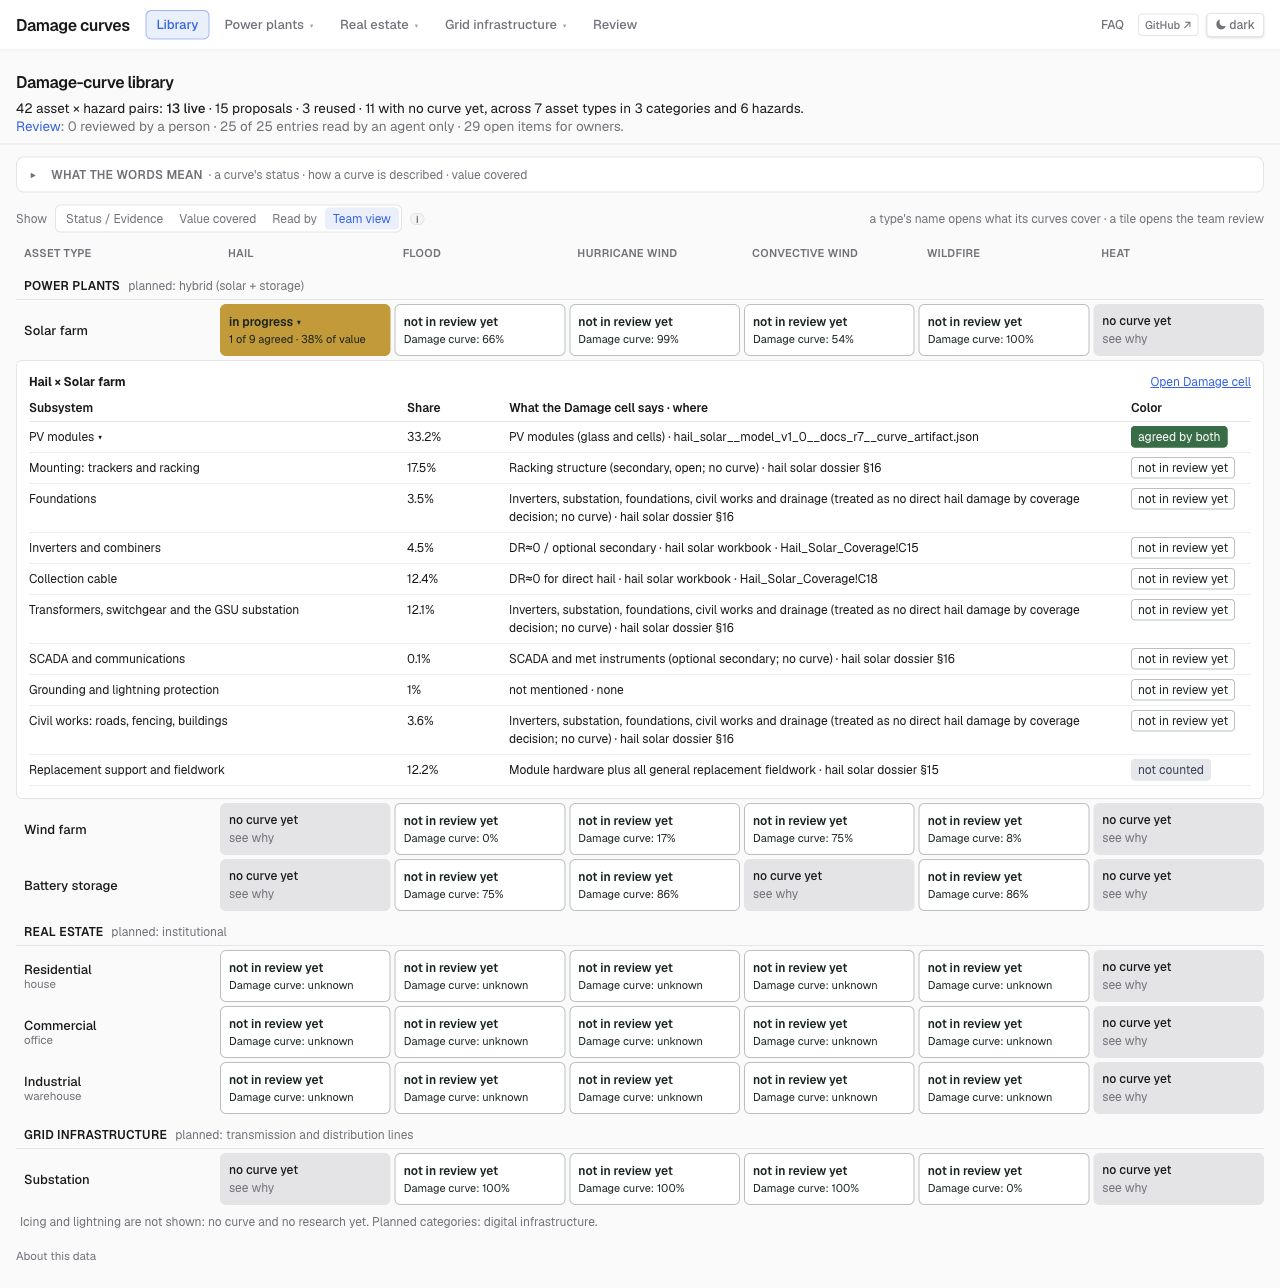
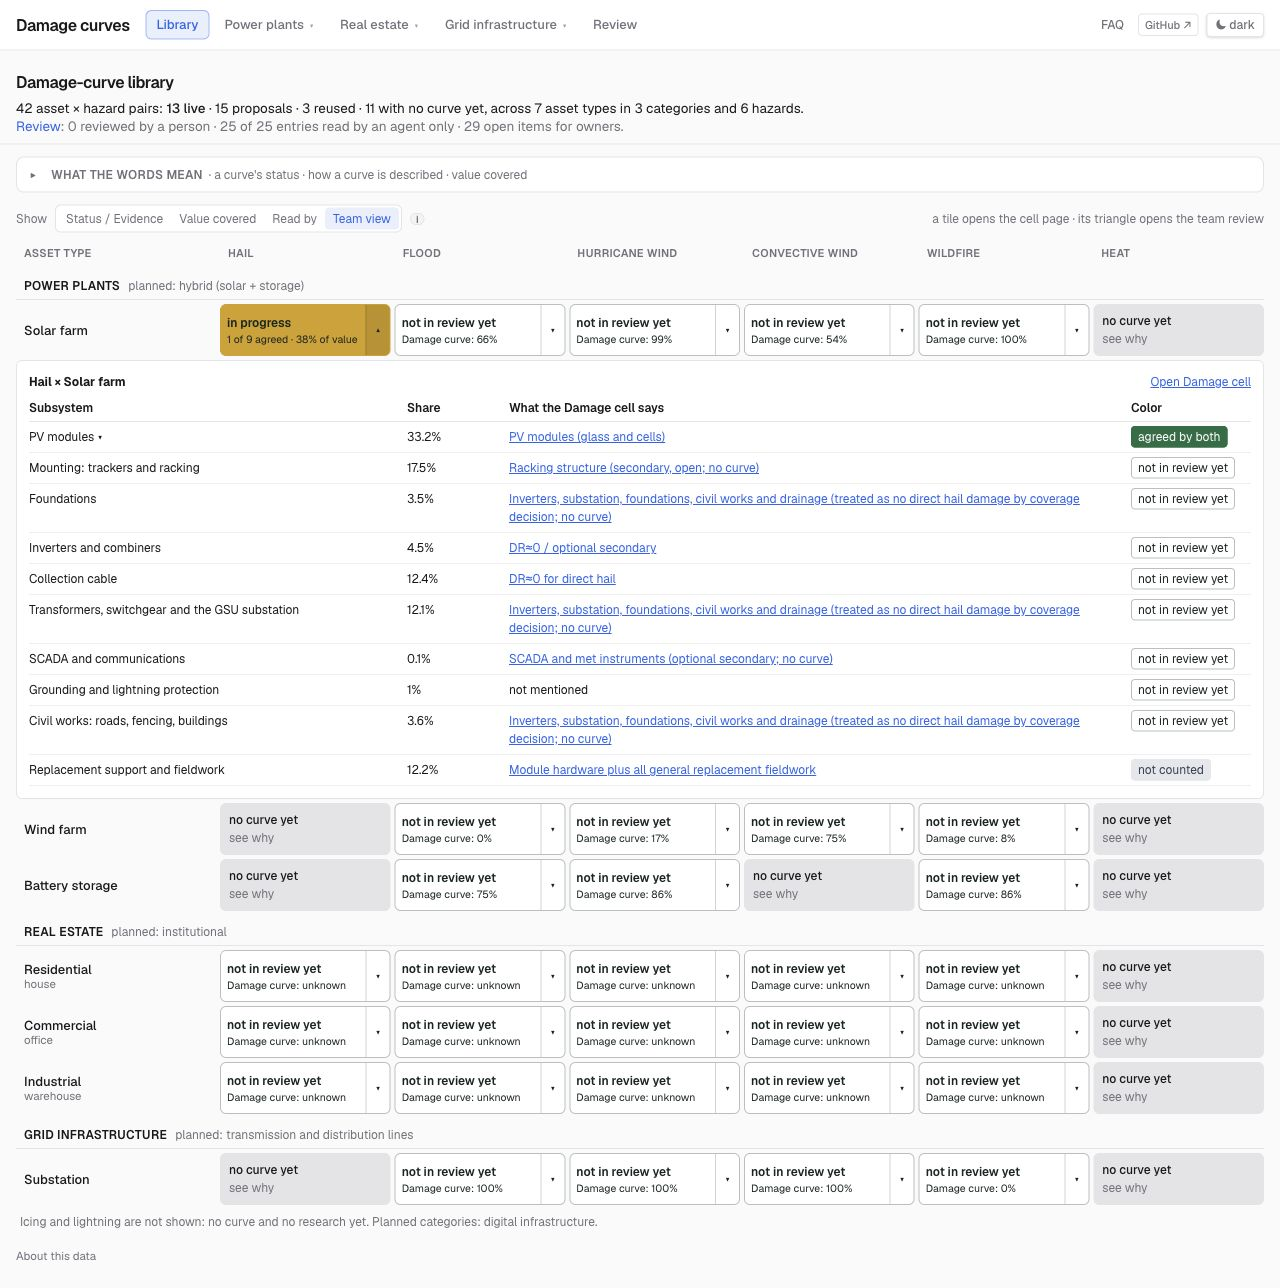
Separate Team tile navigation and link source wording

diff --git a/dashboard/components/library.tsx b/dashboard/components/library.tsx
@@ -23,12 +23,10 @@ const TEAM_TILE: Record<Exclude<TeamColor, "not_counted">, string> = {
 function teamPct(value: number, digits = 0): string {
   return `${(value * 100).toFixed(digits).replace(/\.0$/, "")}%`;
 }
-function teamSource(source: string | null): string {
-  if (!source) return "none";
-  const file = source.split("/").at(-1) ?? source;
-  if (source.includes("hail_solar_curve_derivation_dossier")) return source.includes("§15") ? "hail solar dossier §15" : "hail solar dossier §16";
-  if (source.includes("Hail_Solar_Coverage")) return `hail solar workbook · ${source.split(" · ").at(-1)}`;
-  return file;
+function teamSourceUrl(repo: string, commit: string, source: string | null): string | null {
+  if (!source) return null;
+  const path = source.split(" · ")[0].split(" §")[0];
+  return path.startsWith("docs/") && !path.includes("..") ? `${repo}/blob/${commit}/${path}` : null;
 }
 const STATUS_WORD: Record<string, string> = { live: "live", proposal: "proposal", reused: "reused", gap: "no curve yet" };
 // a tile's status is its shade, in every view: live white, proposal grey, reused dashed, no curve yet dark grey
@@ -90,31 +88,42 @@ function TeamTile({ t, team, open, onClick, rc, tabIndex, onKey }: { t: LibraryT
   const detail = team.color === "white" ? `Damage curve: ${priced == null ? "unknown" : teamPct(priced)}`
     : team.color === "yellow" ? `${team.agreed} of ${team.total} agreed · ${team.agreed_value == null ? "unknown" : teamPct(team.agreed_value)} of value`
     : team.color === "red" ? `problem: ${team.problem ?? "unknown"}` : null;
-  return <button type="button" data-rc={rc} tabIndex={tabIndex} onKeyDown={onKey} onClick={onClick} aria-expanded={open}
-    aria-label={`${t.title}: ${TEAM_WORD[team.color]}. Open subsystem review.`}
-    className={`flex h-[52px] w-full flex-col justify-center rounded-md border px-2 text-left hover:brightness-95 ${TEAM_TILE[team.color]}`}>
-    <span className="truncate text-[12px] font-semibold">{TEAM_WORD[team.color]}{team.color === "white" ? "" : " ▾"}</span>
-    {detail ? <span className="truncate text-[11px]">{detail}</span> : null}
-  </button>;
+  return <div className={`flex h-[52px] w-full items-stretch overflow-hidden rounded-md border ${TEAM_TILE[team.color]}`}>
+    <Link href={t.href} data-rc={rc} tabIndex={tabIndex} onKeyDown={onKey}
+      aria-label={`Open ${t.title} cell page`}
+      className="flex min-w-0 flex-1 flex-col justify-center px-1.5 text-left hover:brightness-95 focus-visible:outline focus-visible:outline-2 focus-visible:outline-offset-[-2px]">
+      <span className="truncate text-[12px] font-semibold">{TEAM_WORD[team.color]}</span>
+      {detail ? <span className="truncate text-[10.5px]">{detail}</span> : null}
+    </Link>
+    <button type="button" onClick={onClick} aria-expanded={open} aria-label={`${open ? "Close" : "Open"} ${t.title} subsystem review`}
+      className="flex w-6 shrink-0 items-center justify-center border-l border-current/20 text-[12px] hover:bg-black/10 focus-visible:outline focus-visible:outline-2 focus-visible:outline-offset-[-2px]">
+      <span aria-hidden="true">{open ? "▴" : "▾"}</span>
+    </button>
+  </div>;
 }
 
-function TeamPanel({ team, title, href }: { team: TeamCell; title: string; href: string }) {
+function TeamPanel({ team, title, href, repo, commit }: { team: TeamCell; title: string; href: string; repo: string; commit: string }) {
   const [open, setOpen] = useState<string | null>(null);
   return <div className="rounded-md border border-border bg-card p-3 text-[12px]">
     <div className="mb-2 flex items-center justify-between"><strong>{title}</strong><Link href={href} className="text-accent underline">Open Damage cell</Link></div>
     <div className="grid grid-cols-[minmax(150px,1.2fr)_90px_minmax(250px,2fr)_120px] gap-x-3 border-b border-border pb-1 font-semibold">
-      <span>Subsystem</span><span>Share</span><span>What the Damage cell says · where</span><span>Color</span>
+      <span>Subsystem</span><span>Share</span><span>What the Damage cell says</span><span>Color</span>
     </div>
     {team.rows.map((row) => <Fragment key={row.key}>
       <div className="grid grid-cols-[minmax(150px,1.2fr)_90px_minmax(250px,2fr)_120px] gap-x-3 border-b border-border/60 py-1.5">
         <span>{row.curves.length ? <button type="button" onClick={() => setOpen(open === row.key ? null : row.key)} aria-expanded={open === row.key} className="text-left hover:underline">{row.label} ▾</button> : row.label}</span>
         <span>{row.share == null ? "unknown" : teamPct(row.share, 1)}</span>
-        <span title={row.source ?? "none"}>{row.wording} · {teamSource(row.source)}</span>
+        <span>{teamSourceUrl(repo, commit, row.source)
+          ? <a href={teamSourceUrl(repo, commit, row.source)!} target="_blank" rel="noopener noreferrer" title={row.source ?? undefined} className="text-accent underline hover:text-accent/80">{row.wording}</a>
+          : row.wording}</span>
         <span><span className={`rounded border px-1.5 py-0.5 ${row.color === "not_counted" ? "border-gray-200 bg-gray-200 text-gray-700" : TEAM_TILE[row.color]}`}>{TEAM_WORD[row.color]}</span></span>
       </div>
       {open === row.key && row.curves.map((curve) => <div key={curve.id} className="grid grid-cols-[minmax(150px,1.2fr)_90px_minmax(250px,2fr)_120px] gap-x-3 border-b border-border/40 bg-muted/30 py-1 pl-4">
         <Link href={`${href}/curves/${curve.id}`} className="break-all text-accent hover:underline">{curve.id}</Link>
-        <span>{row.curves.length > 1 ? "alternative" : row.share == null ? "unknown" : teamPct(row.share, 1)}</span><span title={curve.source ?? "none"}>Curve record · {teamSource(curve.source)}</span>
+        <span>{row.curves.length > 1 ? "alternative" : row.share == null ? "unknown" : teamPct(row.share, 1)}</span>
+        <span>{teamSourceUrl(repo, commit, curve.source)
+          ? <a href={teamSourceUrl(repo, commit, curve.source)!} target="_blank" rel="noopener noreferrer" title={curve.source ?? undefined} className="text-accent underline hover:text-accent/80">Curve record</a>
+          : "Curve record"}</span>
         <span><span className={`rounded border px-1.5 py-0.5 ${TEAM_TILE[curve.color === "not_counted" ? "white" : curve.color]}`}>{TEAM_WORD[curve.color]}</span></span>
       </div>)}
     </Fragment>)}
@@ -174,12 +183,12 @@ export function Library({ m }: { m: ManifestV3 }) {
         </div>
         <InfoHint label="How to read a tile">
           {/* the words themselves are in "What the words mean" above; this says only how to use the grid */}
-          {lens === "team" ? <div>Click a tile to see its subsystems. Click a subsystem to see its curves. Replacement support and fieldwork is listed but not counted.</div> : <div className="space-y-1">
+          {lens === "team" ? <div>Click a tile to open its cell page. Click its triangle to see subsystems, then click a subsystem to see its curves. Replacement support and fieldwork is listed but not counted.</div> : <div className="space-y-1">
             <div>A tile&apos;s first line and shade say what exists; the second line is the view chosen here.</div>
             <div>Hover a tile for both halves of its evidence: <span className="italic">damage at each hazard level</span> and <span className="italic">the dollar value it is applied to</span>.</div>
           </div>}
         </InfoHint>
-        <span className="ml-auto text-muted-foreground">{lens === "team" ? "a type's name opens what its curves cover · a tile opens the team review" : "a type's name opens what its curves cover · a tile opens the curve"}</span>
+        <span className="ml-auto text-muted-foreground">{lens === "team" ? "a tile opens the cell page · its triangle opens the team review" : "a type's name opens what its curves cover · a tile opens the curve"}</span>
       </div>
       <div ref={grid} role="grid" aria-label="Damage-curve library: asset types by hazard" className="mt-2 overflow-x-auto">
         <div className="grid min-w-[860px] gap-1" style={{ gridTemplateColumns: `200px repeat(${hazards.length}, minmax(128px, 1fr))` }}>
@@ -221,7 +230,7 @@ export function Library({ m }: { m: ManifestV3 }) {
                   {lens === "team" && openTeam?.startsWith(`${r}-`) ? (() => {
                     const h = hazards[Number(openTeam.split("-")[1])];
                     const tile = t.tiles[h?.slug];
-                    return tile?.team ? <div role="row" className="col-span-full"><TeamPanel team={tile.team} title={tile.title} href={tile.href} /></div> : null;
+                    return tile?.team ? <div role="row" className="col-span-full"><TeamPanel team={tile.team} title={tile.title} href={tile.href} repo={m.repo.url} commit={m.link_commit} /></div> : null;
                   })() : null}
                   </Fragment>
                 );

diff --git a/scripts/dashboard/dashboard_build/team.py b/scripts/dashboard/dashboard_build/team.py
@@ -65,6 +65,17 @@ def _hail_calls() -> dict[str, tuple[str, str]]:
             "collection": (rows[18]["C"], HAIL_BOOK + " · Hail_Solar_Coverage!C18")}
 
 
+def _catalogue_source(cell: str, wording: str) -> str | None:
+    """Link to the catalogue line only when it contains the displayed wording."""
+    path = f"docs/cells/catalogue/{cell}.json"
+    file = ROOT / path
+    if file.is_file():
+        for line, content in enumerate(file.read_text(encoding="utf-8").splitlines(), 1):
+            if wording in content:
+                return f"{path}#L{line}"
+    return None
+
+
 def _color(events: list[dict], has_curve: bool) -> str:
     if not events:
         return "white"
@@ -108,15 +119,17 @@ def build(assets: dict, tiles: list[dict], library: list[dict]) -> None:
             elif sub["entry_id"] == "hail_solar" and sub["key"] == "grounding":
                 wording, source = "not mentioned", None
             elif sub["entry_id"] == "hail_solar" and sub["key"] == "support":
-                wording, source = "Module hardware plus all general replacement fieldwork", HAIL_DOSSIER + " §15"
+                wording, source = "Module hardware plus all general replacement fieldwork", HAIL_DOSSIER + "#L842"
             elif sub["entry_id"] == "hail_solar" and sub["key"] in ("mounting", "foundations", "substation", "scada", "civil"):
-                wording, source = gap.get("own_words") or "unknown", HAIL_DOSSIER
+                wording = gap.get("own_words") or "unknown"
+                source = _catalogue_source(sub["entry_id"], wording)
             elif sub["cell_state"] == "not_named":
                 cell_dir = ROOT / "docs" / "cells" / sub["entry_id"]
                 wording = "not checked against the cell's workbook" if list(cell_dir.glob("current/*.xlsx")) else "not mentioned"
                 source = None
             else:
-                wording, source = gap.get("own_words") or "unknown", (gap.get("source") or {}).get("path")
+                wording = gap.get("own_words") or "unknown"
+                source = _catalogue_source(sub["entry_id"], wording) or (gap.get("source") or {}).get("path")
             if sub.get("cost_follows"):
                 color = "not_counted"
             else:

diff --git a/dashboard/BRANCH_CHANGES.md b/dashboard/BRANCH_CHANGES.md
@@ -24,6 +24,7 @@ Open <http://localhost:3211/?lens=team>. The built data are committed, so the Py
 - Team colors roll up from curve or call events to subsystems, then to cells: red if any child is red, green if all are green, white if all are white, otherwise yellow. A breakable part without a curve cannot become green. Replacement support and fieldwork appears as not counted.
 - Tiles without a curve retain the existing gray appearance. With the seeded events, hail × solar is the only yellow tile. Its panel shows PV modules green, three green alternative curves, and the other nine listed rows white except for replacement support. The tile shows `1 of 9 agreed · 38% of value`: the module share is 33.1757% and the counted share is 87.8253% of the $105.3M reference plant. The exact ratio is 37.7746%.
 - The Team panel reads the hail workbook sheet `Hail_Solar_Coverage` for collection cable and the combiner box treatment. It shows each subsystem's source. The existing coverage view and its colors are unchanged.
+- In the Team lens, the tile body opens the cell page and a separate triangle opens the subsystem panel. Sourced statements in the panel use their own wording as the GitHub link text; the link targets the exact repository file, with a line anchor where available. Rows without a source remain plain text.
 - Screenshots are in `dashboard/screenshots/team-view/`: `matrix.jpg`, `hail-solar-subsystems.jpg`, and `pv-module-curves.jpg`.
 
 ## Open points
